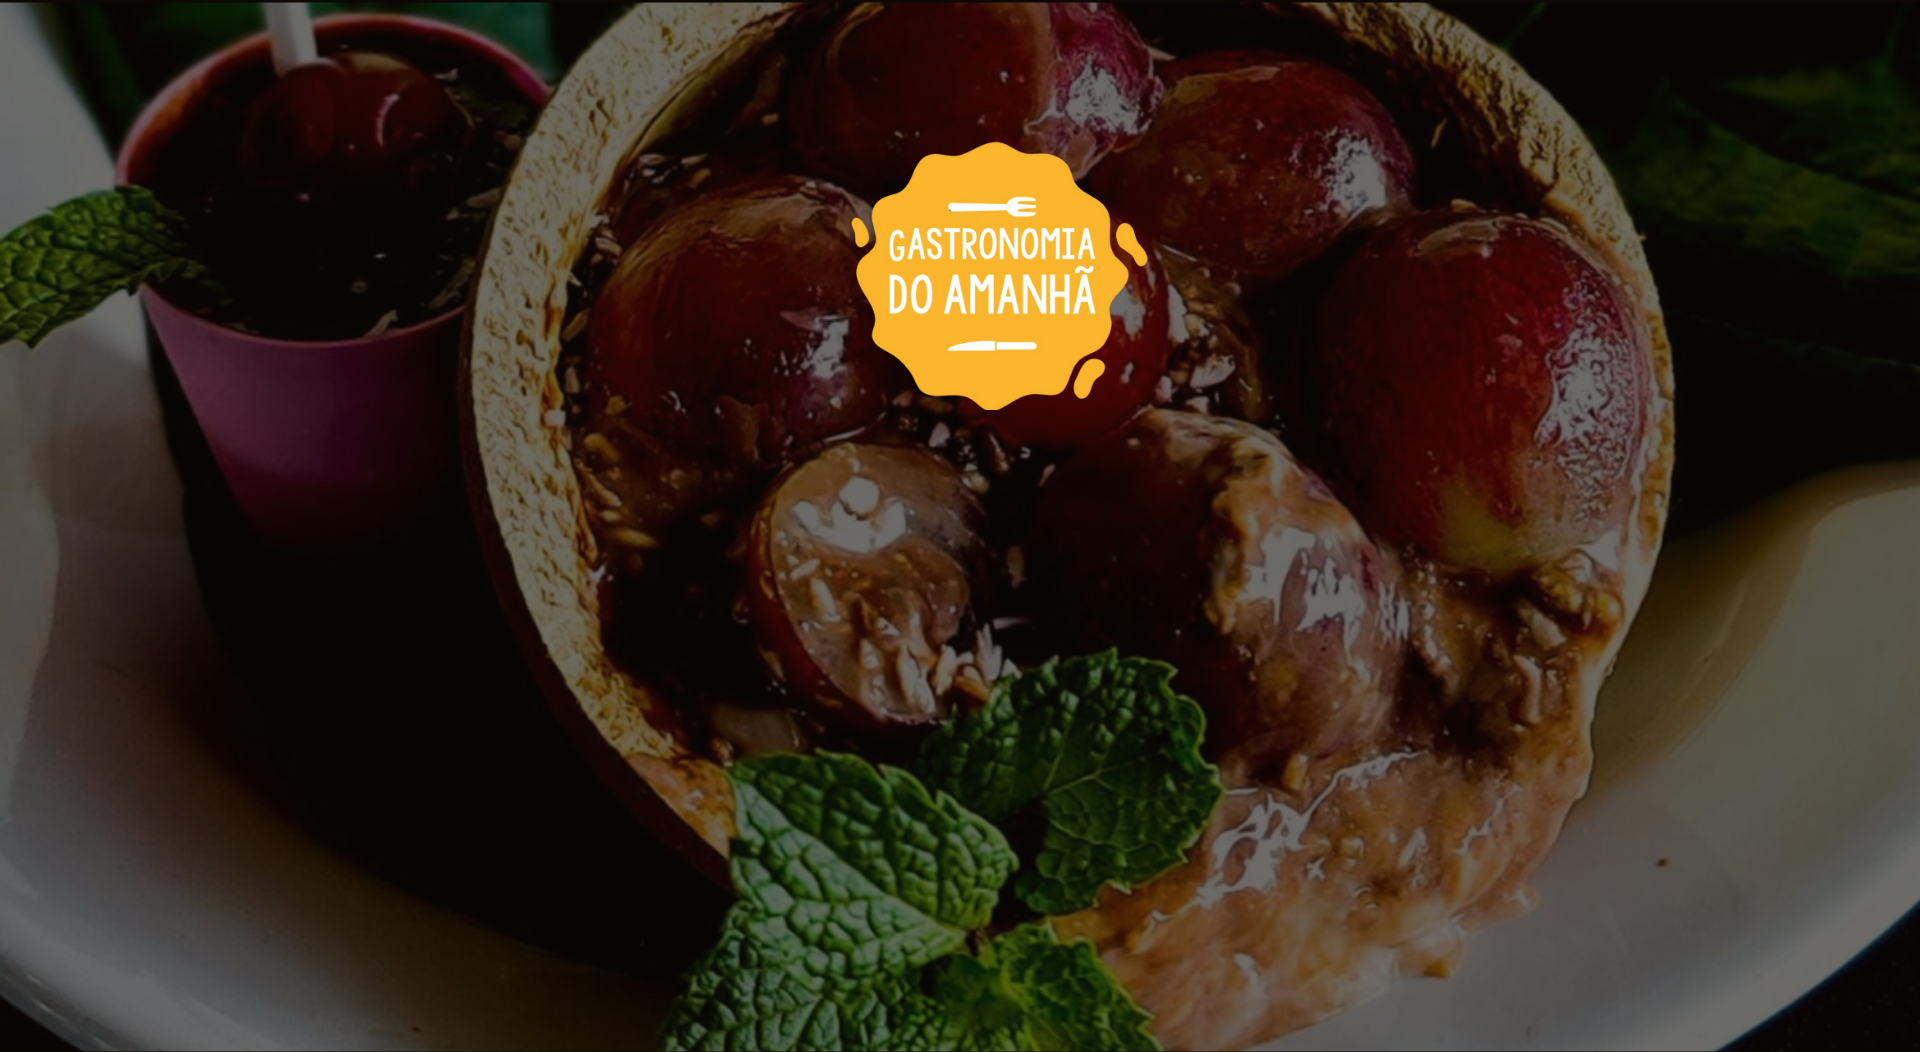
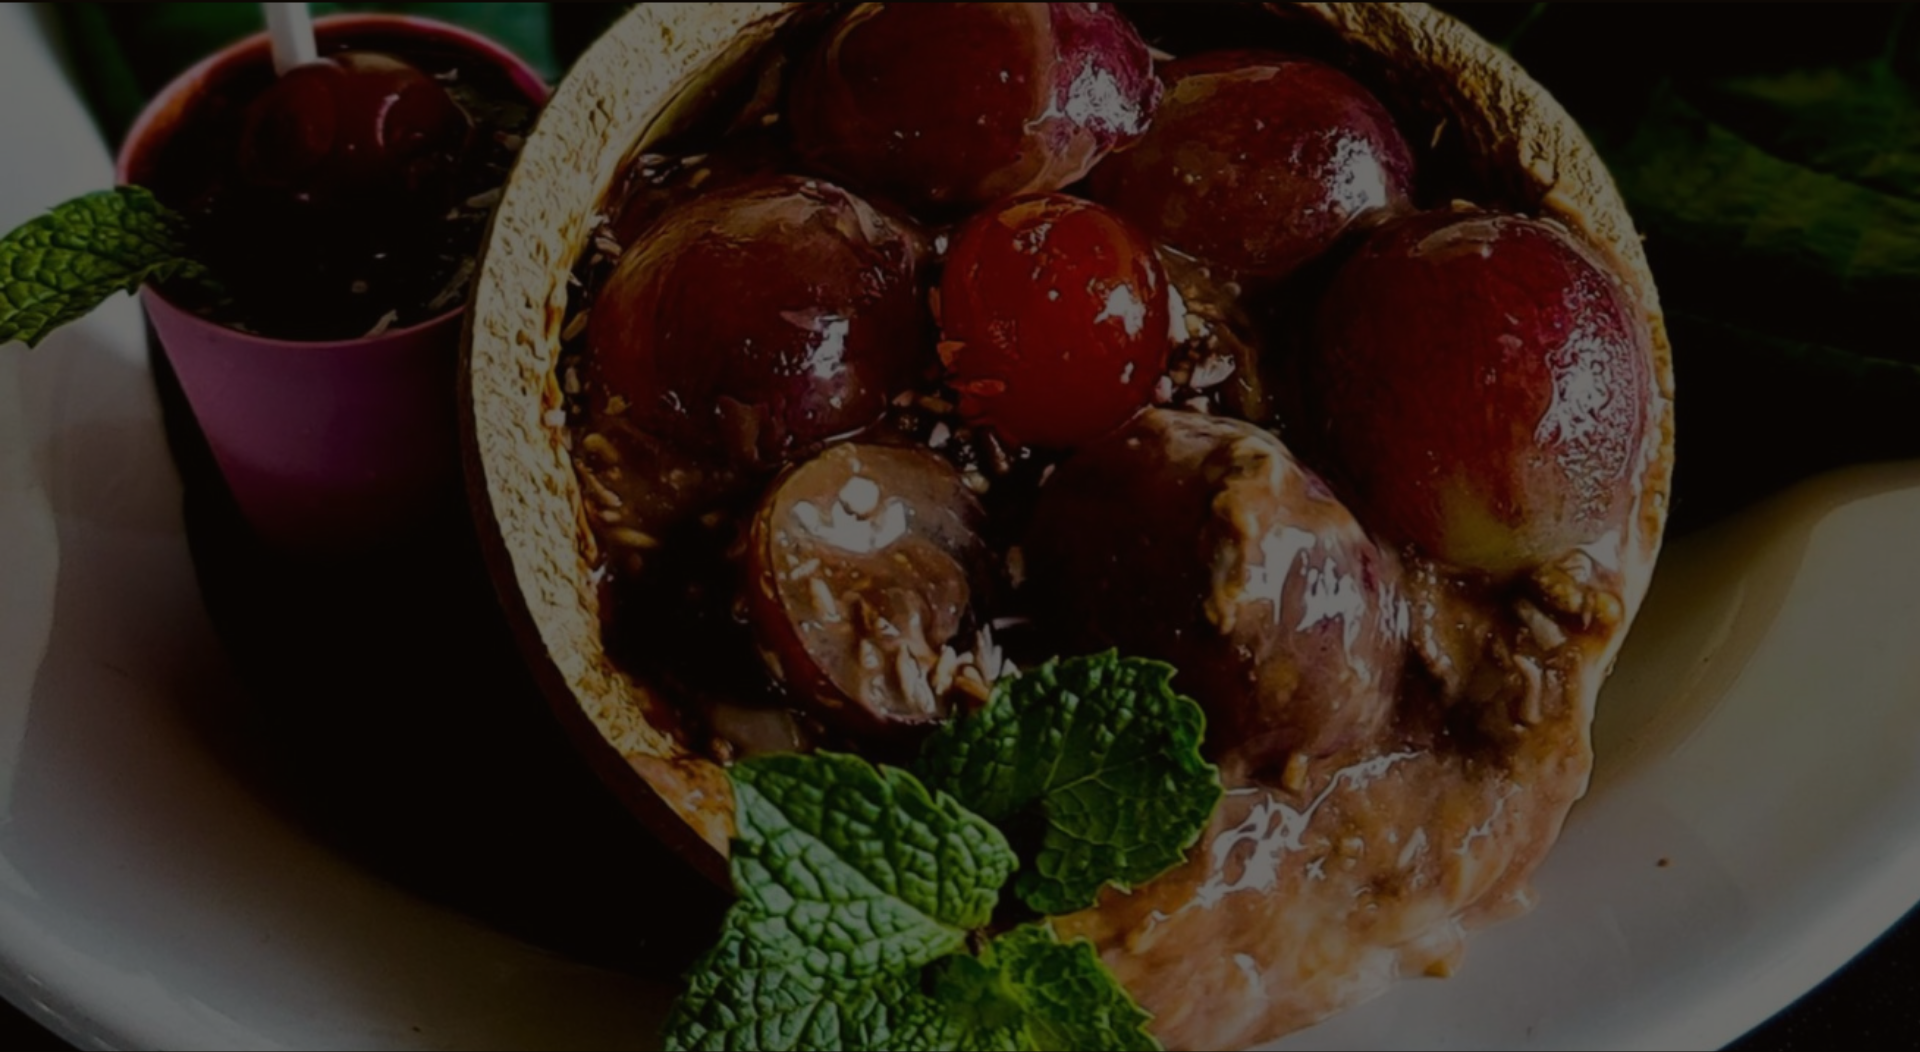
ajuste imagem

Changed region(s): [[0.4375, 0.1217, 0.5938, 0.3954]]

diff --git a/index.html b/index.html
@@ -104,6 +104,9 @@
   <section id="hero" class="d-flex align-items-center">
     <div class="container position-relative text-center text-lg-start" data-aos="zoom-in" data-aos-delay="100">
       <div class="row">
+        <div class="col-md-12 text-center">
+          <img width="200" src="assets/img/logo-removebg-preview.png" alt="">
+        </div>
         <div class="col-lg-8">
           <h1>Conheça o Projeto <span>Gastronomia do Amanhã </span></h1>
           <h2>Um dos maiores projetos de culinária da região paraense!</h2>
